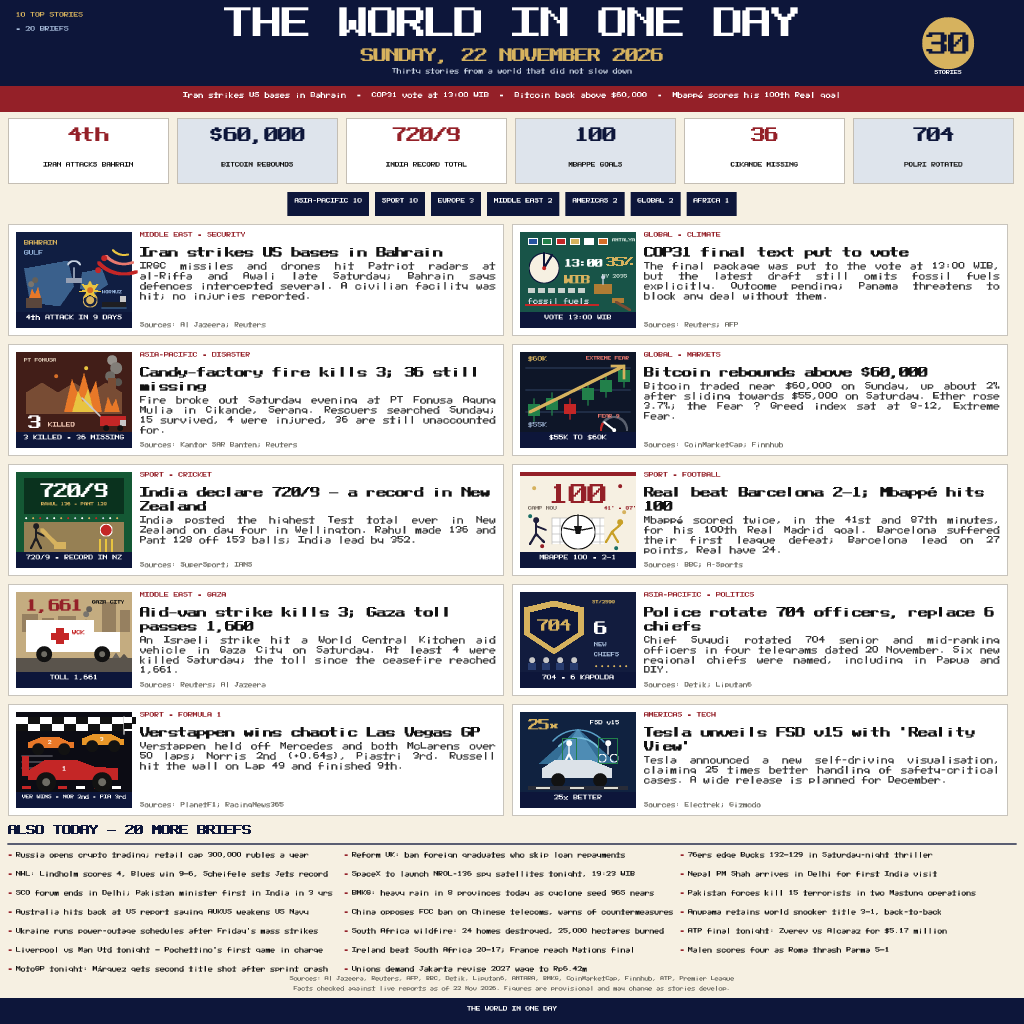
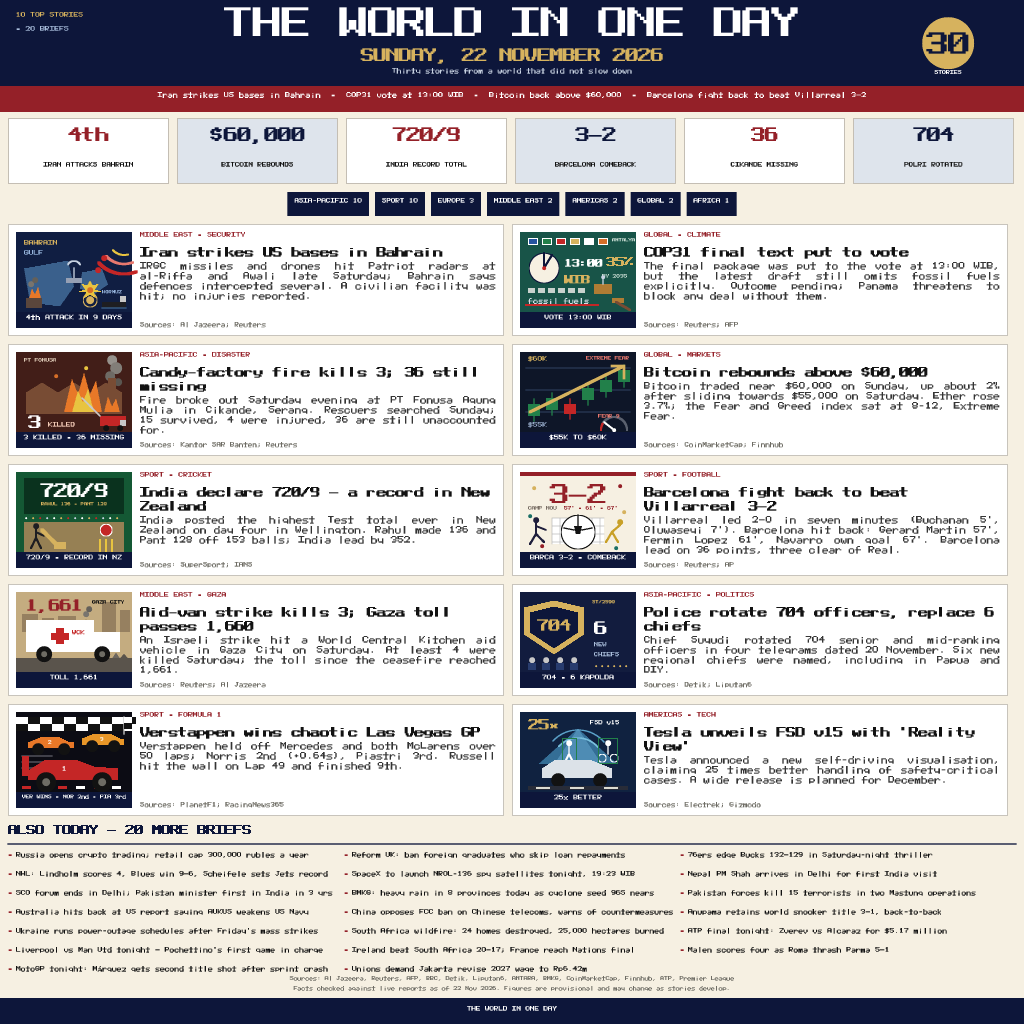
Round 2: Barcelona 3-2 Villarreal card + Fear and Greed fix

diff --git a/main.py b/main.py
@@ -537,13 +537,13 @@ def draw_justified_line(cv, x, y, line, font, scale, max_w, color, bold=True):
 
 # ---------- story data (verified Sun 22 Nov 2026, >=2 outlets each) ----------
 TICKER = ("Iran strikes US bases in Bahrain  •  COP31 vote at 13:00 WIB  •  "
-          "Bitcoin back above $60,000  •  Mbappé scores his 100th Real goal")
+          "Bitcoin back above $60,000  •  Barcelona fight back to beat Villarreal 3–2")
 
 STATS = [
     ("4th", "IRAN ATTACKS BAHRAIN"),
     ("$60,000", "BITCOIN REBOUNDS"),
     ("720/9", "INDIA RECORD TOTAL"),
-    ("100", "MBAPPE GOALS"),
+    ("3–2", "BARCELONA COMEBACK"),
     ("36", "CIKANDE MISSING"),
     ("704", "POLRI ROTATED"),
 ]
@@ -576,7 +576,7 @@ CARDS = [
     ("GLOBAL • MARKETS",
      "Bitcoin rebounds above $60,000",
      "Bitcoin traded near $60,000 on Sunday, up about 2% after sliding towards "
-     "$55,000 on Saturday. Ether rose 3.7%; the Fear & Greed index sat at 8-12, "
+     "$55,000 on Saturday. Ether rose 3.7%; the Fear and Greed index sat at 8-12, "
      "Extreme Fear.",
      "CoinMarketCap; Finnhub", "bitcoin", "$55K TO $60K"),
     ("SPORT • CRICKET",
@@ -585,11 +585,11 @@ CARDS = [
      "Wellington. Rahul made 136 and Pant 128 off 153 balls; India lead by 352.",
      "SuperSport; IANS", "cricket", "720/9 • RECORD IN NZ"),
     ("SPORT • FOOTBALL",
-     "Real beat Barcelona 2–1; Mbappé hits 100",
-     "Mbappé scored twice, in the 41st and 87th minutes, for his 100th Real "
-     "Madrid goal. Barcelona suffered their first league defeat; Barcelona lead on "
-     "27 points, Real have 24.",
-     "BBC; A-Sports", "clasico", "MBAPPE 100 • 2–1"),
+     "Barcelona fight back to beat Villarreal 3–2",
+     "Villarreal led 2–0 in seven minutes (Buchanan 5', Oluwaseyi 7'). "
+     "Barcelona hit back: Gerard Martin 57', Fermin Lopez 61', Navarro own "
+     "goal 67'. Barcelona lead on 36 points, three clear of Real.",
+     "Reuters; AP", "barca", "BARCA 3–2 • COMEBACK"),
     ("MIDDLE EAST • GAZA",
      "Aid-van strike kills 3; Gaza toll passes 1,660",
      "An Israeli strike hit a World Central Kitchen aid vehicle in Gaza City on "
@@ -834,19 +834,19 @@ def v_cricket(cv, x, y, w, h, label):
     vlabel(cv, x, y, w, h, label)
 
 
-def v_clasico(cv, x, y, w, h, label):
+def v_barca(cv, x, y, w, h, label):
     cv.rect(x, y, w, h, (246, 240, 226))
     cv.rect(x, y, w, 4, MAROON)
-    # venue + goal minutes (41' and 87')
+    # venue + the three goal minutes (57', 61', 67')
     draw_text(cv, x + 8, y + 34, "CAMP NOU", 5, 0.6, (120, 110, 100), bold=True)
-    draw_text(cv, x + 84, y + 34, "41' • 87'", 5, 0.6, MAROON, bold=True)
+    draw_text(cv, x + 44, y + 34, "57' • 61' • 67'", 5, 0.6, MAROON, bold=True)
     # goal net behind the ball
     cv.rect(x + w / 2.0 - 26, y + 46, 52, 26, WHITE)
     for gx in range(-26, 27, 8):
         cv.line(x + w / 2.0 + gx, y + 46, x + w / 2.0 + gx, y + 72, (180, 180, 180), 0.8)
     for gy in range(46, 73, 8):
         cv.line(x + w / 2.0 - 26, y + gy, x + w / 2.0 + 26, y + gy, (180, 180, 180), 0.8)
-    draw_text_c(cv, x + w / 2.0, y + 10, "100", 8, 2.1, MAROON, bold=True, heavy=True)
+    draw_text_c(cv, x + w / 2.0, y + 10, "3–2", 8, 2.1, MAROON, bold=True, heavy=True)
     # football: bigger white ball with black patches
     cv.circle(x + w / 2.0, y + 60, 17, WHITE, fill=True)
     cv.circle(x + w / 2.0, y + 60, 17, INK, fill=False)
@@ -994,7 +994,7 @@ def v_tesla(cv, x, y, w, h, label):
 
 VISUALS = {
     "bahrain": v_bahrain, "cop31": v_cop31, "cikande": v_cikande,
-    "bitcoin": v_bitcoin, "cricket": v_cricket, "clasico": v_clasico,
+    "bitcoin": v_bitcoin, "cricket": v_cricket, "barca": v_barca,
     "gaza": v_gaza, "polri": v_polri, "f1": v_f1, "tesla": v_tesla,
 }
 
